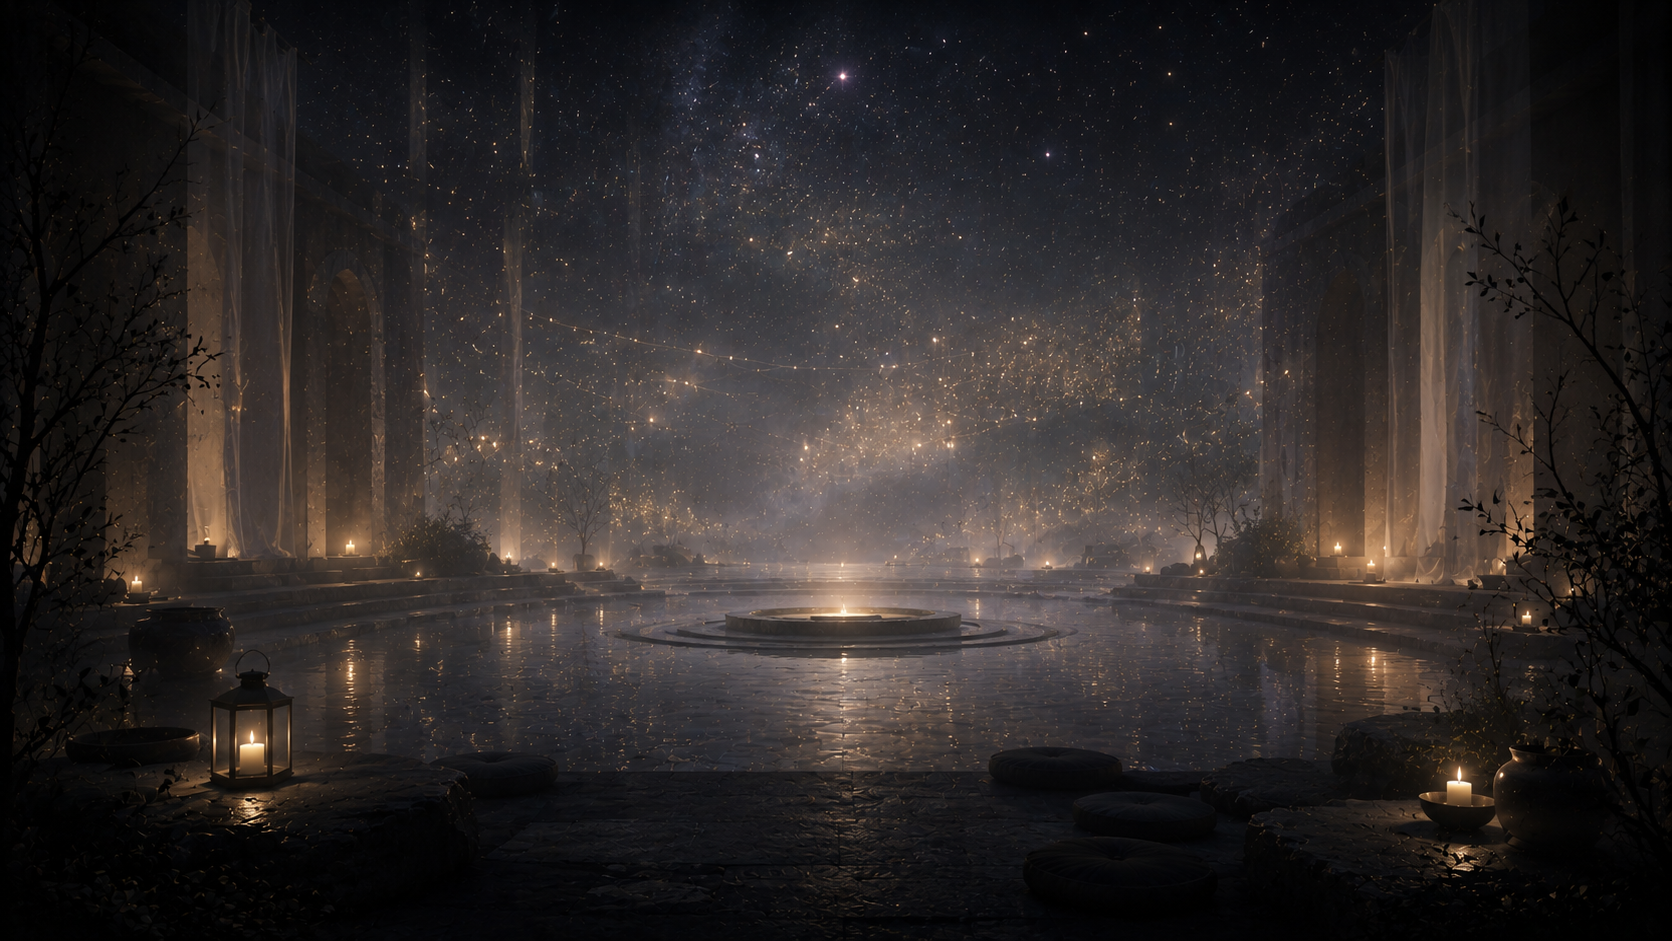
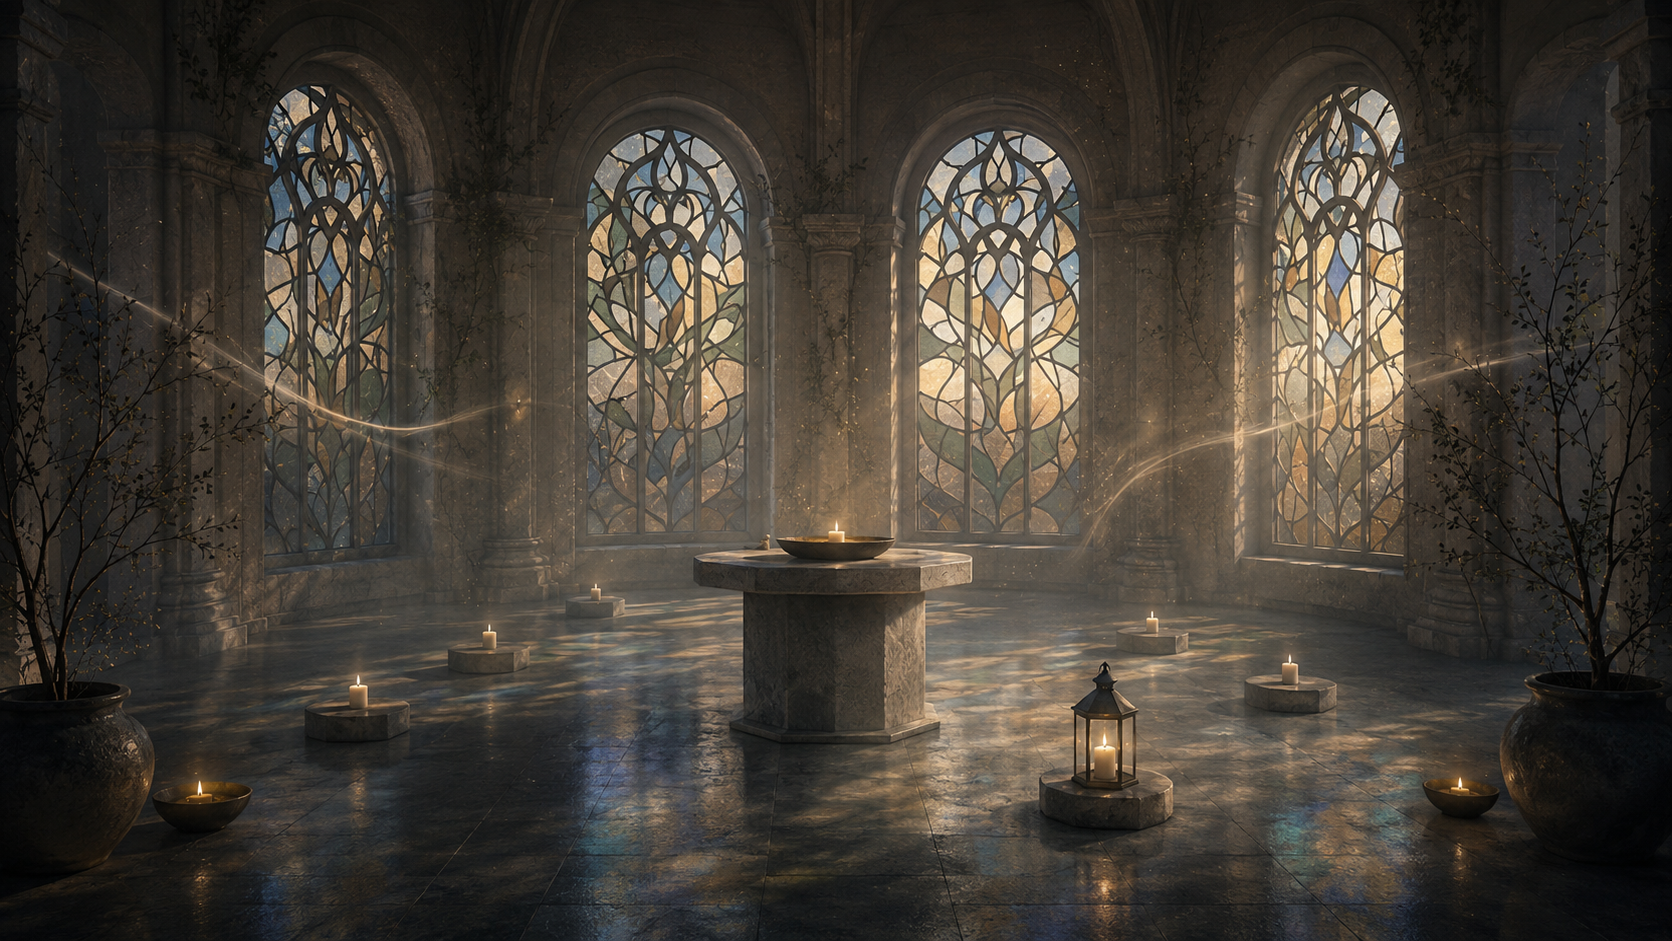
Füge neue Bilddatei 66.png für Grundbilder hinzu

diff --git a/docs/Raeume.md b/docs/Raeume.md
@@ -1251,9 +1251,9 @@ Dabei gilt:
 ![alt text](../samples/grundbilder/65.png)
 "Digitaler Resonanzraum, Raum der Antwort, im Stil des Master-Screens, hybrides 2D-Screendesign, stiller Hof mit Wasser und Licht oder lichter Baumraum als Übergang zwischen Dunkelheit und Helligkeit, ruhiges Wasserbecken, offene Schale, Baum- oder Astform, leichte Lichtkanten, warme aber zurückhaltende Helligkeit, poetische Materialität, leise Selbstwirksamkeit, hoffnungsvoll ohne Pathos, keine UI, keine Schrift, keine identifizierbaren Personen, Ko-Präsenz höchstens als kaum sichtbarer mittragender Nachhall, 16:9."
 
-### 6.6 Raum der Verdichtung
+### 6.6 Raum der Verdichtung und inneren Sammlung
 ![alt text](../samples/grundbilder/66.png)
-"Digitaler Resonanzraum, Raum der Verdichtung, im Stil des Master-Screens, hybrides 2D-Screendesign, offene nächtliche Weite oder abstrahierte Halle aus Dunkel und Leuchten, mehrschichtige Licht- und Nebelflächen, feine Stern- oder Partikelebenen, ruhige horizontale Raumkanten, atmosphärische Dichte ohne Eventcharakter, gemeinsame Gegenwart nur als Verdichtung von Licht, Klang, Partikeln und schwingenden Schatten, nicht als Gruppe sichtbarer Personen, würdevoll, gesammelt, keine UI, keine Schrift, keine Avatarwirkung, 16:9."
+"Digitaler Resonanzraum, Raum der Verdichtung - inneren Sammlung, im Stil des Master-Screens, hybrides 2D-Screendesign, offene nächtliche Weite oder abstrahierte Halle aus Dunkel und Leuchten, trocken, mehrschichtige Licht- und Nebelflächen, ruhige horizontale Raumkanten, atmosphärische Dichte ohne Eventcharakter, gemeinsame Gegenwart nur als Verdichtung von Licht, Klang, Partikeln und schwingenden Schatten (Silhouetten), nicht als Gruppe sichtbarer Personen, würdevoll, gesammelt, keine UI, keine Schrift, keine Avatarwirkung, 16:9"
 
 ### 6.7 Raum der Berufung / leisen Wirksamkeit
 ![alt text](../samples/grundbilder/67.png)